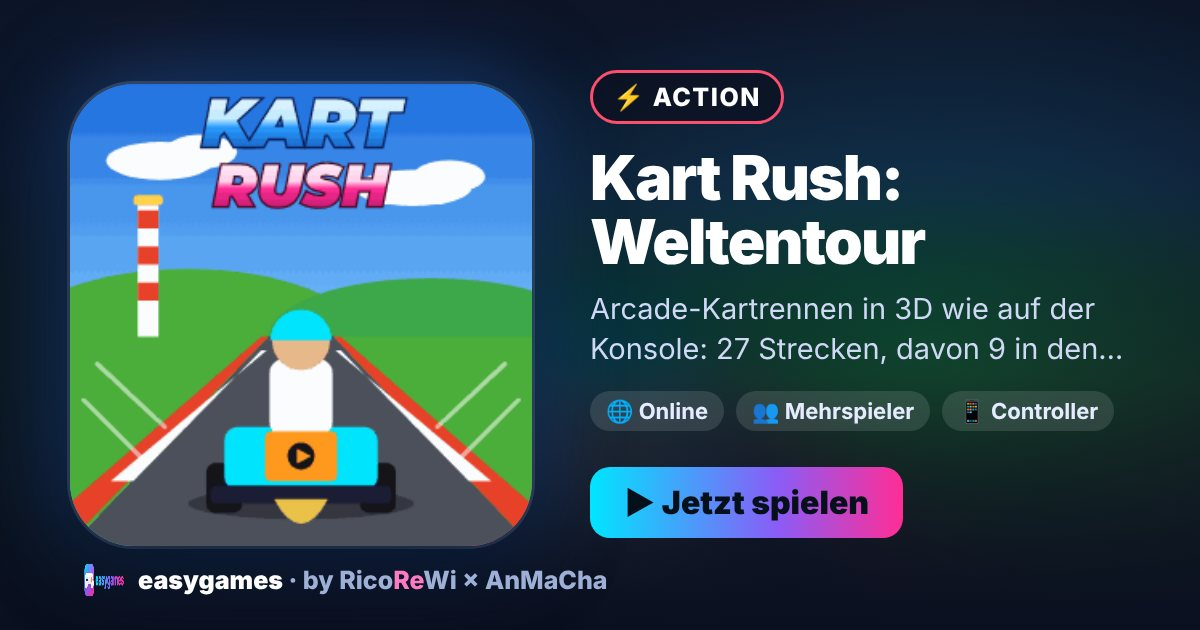
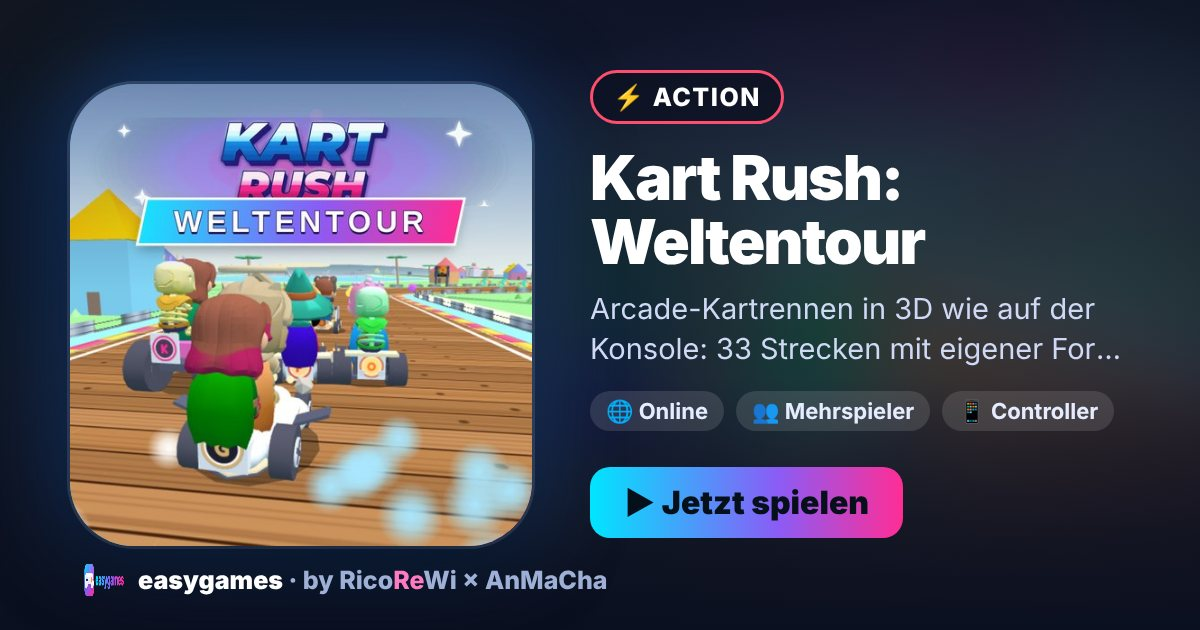
Kart Rush: Start mit alten Spielständen repariert, neue Spielkarte und Beschreibung (#765)
Claude-Session: https://claude.ai/code/session_01NrLDmyuqsTSX6ZUrFUCvV6

diff --git a/thumbs/thumbs.js b/thumbs/thumbs.js
@@ -1,2 +1,2 @@
 /* Erzeugt von tools/make-thumbs.py – nicht von Hand ändern. Spiel-ID → Prüfsumme des Kartenbilds. */
-window.EASYGAMES_THUMBS = {"FunkhausReality":"4aa38c236d","MachMichAus":"81ee6f75f8","aeru":"c2a8f2fe78","anmacha-beat-surfer":"008cf5e26a","anmacha-flipper":"53c6bf7082","anmacha-funkparcours":"2619f175e5","anmacha-gesucht":"7a63b68762","anmacha-gold-reels":"2923ec1fd8","anmacha-kartenrausch":"7b5e3bb831","anmacha-klotzfunk":"011e302d09","anmacha-koffer-dealer":"41b020a0e3","anmacha-markthalle":"89fffede78","anmacha-memory":"0585035cbd","anmacha-quest-rpg":"e301bd7e91","anmacha-quiz":"9a4a9c0e50","anmacha-radio-match":"63fddd3ae0","anmacha-radio-surfer":"ed2b090f00","anmacha-showdown":"cf6d4224c3","anmacha-snake":"3997434c15","anmacha-solitaire":"bcfead7dca","anmacha-spielesammlung":"4316f91b6f","anmacha-tower-defense":"4d19872c87","anmacha-undercover":"b72dd8e358","anmacha-urwaldlager":"d81ba29599","beat-studio":"3f9cf05175","bowling-bahn":"021e43a9a1","brainrot-parkour":"46f1c3e50b","bunte-insel":"22de6c1f68","challenge-show":"ab2de10024","darts-arena":"19ee317414","deluxe-2048":"e50a77959c","easyclash":"2d58b72e70","fabelkick":"03e09d6b85","fall-akte":"203677cdf8","frequenzminen":"ef06d327a5","funk-billard":"1304aa77c1","funk-survivor":"878f820442","funkgalgen":"b28b8589b6","funkgolf":"76a5361c19","funkmaler":"25b1bac743","gay-life":"0552be48d4","groove-arena":"608d7d74af","huepfstrasse":"cc8fefd12e","ich-bin-das-licht":"db8614122f","klavierlicht":"ef451d1a9c","konfetti-party":"77f099422b","kuechen-chaos":"65d8f6bcde","leuchtfeuer":"519b37deb3","mahjong":"4331ba0f89","mimori":"3fbe04be9a","partyverse":"c3bcad7278","pestwacht":"51ee0baf99","prismrush":"1f159400ab","radio-bingo":"a546e515b2","ricopoly":"91cf07cd88","riftzone":"820b303017","saftblitz":"e2bcce9437","schatzfieber":"c557860bab","sendemast-sumo":"0947dd8dbe","show-me-your-voice":"2b74c13759","sonnenhof":"c7b1ba067f","stadt-land-plus":"8fb1b45890","tortenschlacht":"fd1af57fbe","turbokick":"67af70bae7","werwolf-nacht":"9289aff572","winzflitzer":"2dec913b05","wolkenhopser":"d373d8ce5c","wortfunk":"d1830411be","wortgitter":"2f334d8da2","zeitsprung":"4b126b7654","zotik":"9f37ccfee2"};
+window.EASYGAMES_THUMBS = {"FunkhausReality":"4aa38c236d","MachMichAus":"81ee6f75f8","aeru":"c2a8f2fe78","anmacha-beat-surfer":"008cf5e26a","anmacha-flipper":"53c6bf7082","anmacha-funkparcours":"2619f175e5","anmacha-gesucht":"7a63b68762","anmacha-gold-reels":"2923ec1fd8","anmacha-kart":"1be3c7ebf2","anmacha-kartenrausch":"7b5e3bb831","anmacha-klotzfunk":"011e302d09","anmacha-koffer-dealer":"41b020a0e3","anmacha-markthalle":"89fffede78","anmacha-memory":"0585035cbd","anmacha-quest-rpg":"e301bd7e91","anmacha-quiz":"9a4a9c0e50","anmacha-radio-match":"63fddd3ae0","anmacha-radio-surfer":"ed2b090f00","anmacha-showdown":"cf6d4224c3","anmacha-snake":"3997434c15","anmacha-solitaire":"bcfead7dca","anmacha-spielesammlung":"4316f91b6f","anmacha-tower-defense":"4d19872c87","anmacha-undercover":"b72dd8e358","anmacha-urwaldlager":"d81ba29599","beat-studio":"3f9cf05175","bowling-bahn":"021e43a9a1","brainrot-parkour":"46f1c3e50b","bunte-insel":"22de6c1f68","challenge-show":"ab2de10024","darts-arena":"19ee317414","deluxe-2048":"e50a77959c","easyclash":"2d58b72e70","fabelkick":"03e09d6b85","fall-akte":"203677cdf8","frequenzminen":"ef06d327a5","funk-billard":"1304aa77c1","funk-survivor":"878f820442","funkgalgen":"b28b8589b6","funkgolf":"76a5361c19","funkmaler":"25b1bac743","gay-life":"0552be48d4","groove-arena":"608d7d74af","huepfstrasse":"cc8fefd12e","ich-bin-das-licht":"db8614122f","klavierlicht":"ef451d1a9c","konfetti-party":"77f099422b","kuechen-chaos":"65d8f6bcde","leuchtfeuer":"519b37deb3","mahjong":"4331ba0f89","mimori":"3fbe04be9a","partyverse":"c3bcad7278","pestwacht":"51ee0baf99","prismrush":"1f159400ab","radio-bingo":"a546e515b2","ricopoly":"91cf07cd88","riftzone":"820b303017","saftblitz":"e2bcce9437","schatzfieber":"c557860bab","sendemast-sumo":"0947dd8dbe","show-me-your-voice":"2b74c13759","sonnenhof":"c7b1ba067f","stadt-land-plus":"8fb1b45890","tortenschlacht":"fd1af57fbe","turbokick":"67af70bae7","werwolf-nacht":"9289aff572","winzflitzer":"2dec913b05","wolkenhopser":"d373d8ce5c","wortfunk":"d1830411be","wortgitter":"2f334d8da2","zeitsprung":"4b126b7654","zotik":"9f37ccfee2"};

diff --git a/anmacha-kart/game.js b/anmacha-kart/game.js
@@ -148,6 +148,17 @@ function initHost() {
   const spOf = ch => (CHARS[ch] && CHARS[ch].sp) || Sim.SPECIALS[ch % Sim.SPECIALS.length];
   const coOf = ch => save.co != null && save.co !== ch && CHARS[save.co] ? save.co : (ch + 7) % CHARS.length;
   const TR = Track.DEFS; let trCache = {}; const getTrack = (i, mi) => mi ? (trCache['m' + i] || (trCache['m' + i] = Track.build(Track.mirror(TR[i])))) : trCache[i] || (trCache[i] = Track.build(TR[i]));
+  // Gespeicherte Auswahl absichern: unbekannte/veraltete Werte (ältere Versionen, andere Apps) fallen auf gültige Standardwerte zurück
+  const okI = (v, n, d) => { v = Number(v); return Number.isInteger(v) && v >= 0 && v < n ? v : d; };
+  function fixSave() {
+    save.char = okI(save.char, CHARS.length, 1); save.kart = okI(save.kart, KARTS.length, 0); save.logo = okI(save.logo, 13, 6); save.cup = okI(save.cup, Track.CUPS.length, 0);
+    save.track = okI(save.track, TR.length, 0); if (TR[save.track].arena) save.track = 0;
+    const a0 = TR.findIndex(t => t.arena); save.arena = okI(save.arena, TR.length, a0); if (!TR[save.arena] || !TR[save.arena].arena) save.arena = a0;
+    save.co = save.co == null ? null : okI(save.co, CHARS.length, null); save.skill = okI(save.skill, 3, 1); save.cc = save.cc == null ? null : okI(save.cc, 4, null);
+    if (![2, 3, 5].includes(save.laps)) save.laps = 3; if (!['race', 'gp', 'tt', 'free', 'battle'].includes(save.rmode)) save.rmode = 'race'; if (!['ball', 'cap', 'bomb'].includes(save.bmode)) save.bmode = 'ball';
+    if (typeof save.name !== 'string') save.name = ''; if (!save.best || typeof save.best !== 'object') save.best = {}; save.cam = okI(save.cam, 4, 0);
+  }
+  fixSave();
   let logos = [], ready = false, menuView = 'title', setupFor = 'solo', R = null, lobbyOpen = false, peer = null, room = '', players = [], loopOn = false, lastT = 0, paused = false, curTrackIdx = -1, GP = null, nVp = 1;
   const kb = { l: 0, r: 0, g: 0, b: 0, d: 0, i: 0, sw: 0, lb: 0, hn: 0, cam: 0, rn: 0, rp: 0, ro: 0 }, tc = { s: 0, g: 0, b: 0, d: 0, i: 0, sw: 0, lb: 0, hn: 0, cam: 0 };
   // Tastatur: frei belegbar (Optionen → Tastenbelegung); Schlüssel = e.key in Kleinbuchstaben
@@ -320,7 +331,7 @@ function initHost() {
     View.warmup(); ready = true; $('loadInfo').textContent = `${TR.length} Strecken · ${KARTS.length} Karts · ${CHARS.length} Figuren · ${logos.length} Sender-Logos`; renderMenu();
     lastT = performance.now(); loopOn = true; requestAnimationFrame(frame);
     LD.finish(() => { LD.hide(); if (TV) { setupFor = 'multi'; renderMenu(); openLobby(); } else showView('title'); });
-  }).catch(e => { LD.stop(); $('err').hidden = false; $('errTxt').textContent = 'Das Spiel konnte nicht geladen werden (' + e.message + '). Bitte Internetverbindung prüfen.'; });
+  }).catch(e => { if (!sessionStorage.getItem('akReset') && !/fetch|network|load|script/i.test(e.message || '')) { try { sessionStorage.setItem('akReset', '1'); const b = save.best; localStorage.setItem('akSave', JSON.stringify({ best: b, name: save.name })); } catch (x) {} location.reload(); return; } LD.stop(); $('err').hidden = false; $('errTxt').textContent = 'Das Spiel konnte nicht geladen werden (' + e.message + '). Bitte Internetverbindung prüfen.'; });
   renderMenu(); document.addEventListener('pointerdown', () => AUD.unlock(), { once: true }); document.addEventListener('pointerdown', () => { if (!R && ready && !AUD.muted) AUD.bed('menu'); }, { once: true });
   addEventListener('resize', () => { if (ready) { View.resize(innerWidth, innerHeight, nVp); layoutHud(); if (R) R.dirty = true; } });
   if (coarse) $('kbToggle').textContent = '👆 Spieler an diesem Gerät';

diff --git a/share/anmacha-kart.html b/share/anmacha-kart.html
@@ -1,13 +1,13 @@
 <!doctype html>
 <html lang="de"><head><meta charset="utf-8"><meta name="viewport" content="width=device-width,initial-scale=1">
 <title>Kart Rush: Weltentour – easygames</title>
-<meta name="description" content="Arcade-Kartrennen in 3D wie auf der Konsole: 27 Strecken, davon 9 in den Welten der easygames (Zotik, Taschi, Bunte Insel, Wolkenhopser …), 10 Cups, 28 Fahrer und 10 Karts, Bananen, Steine…">
+<meta name="description" content="Arcade-Kartrennen in 3D wie auf der Konsole: 33 Strecken mit eigener Form und Welt, 14 Cups, 50/100/150 cc und Spiegel, Tandem mit zwei Fahrern pro Kart, Spezialitems, Geister-Zeitfahren,…">
 <link rel="canonical" href="https://ricorewioriginal-collab.github.io/easygames/anmacha-kart/">
 <meta property="og:type" content="website"><meta property="og:site_name" content="easygames by RicoReWi × AnMaCha">
-<meta property="og:title" content="Kart Rush: Weltentour – jetzt kostenlos spielen"><meta property="og:description" content="Arcade-Kartrennen in 3D wie auf der Konsole: 27 Strecken, davon 9 in den Welten der easygames (Zotik, Taschi, Bunte Insel, Wolkenhopser …), 10 Cups, 28 Fahrer und 10 Karts, Bananen, Steine…">
+<meta property="og:title" content="Kart Rush: Weltentour – jetzt kostenlos spielen"><meta property="og:description" content="Arcade-Kartrennen in 3D wie auf der Konsole: 33 Strecken mit eigener Form und Welt, 14 Cups, 50/100/150 cc und Spiegel, Tandem mit zwei Fahrern pro Kart, Spezialitems, Geister-Zeitfahren,…">
 <meta property="og:url" content="https://ricorewioriginal-collab.github.io/easygames/share/anmacha-kart.html"><meta property="og:image" content="https://ricorewioriginal-collab.github.io/easygames/share/anmacha-kart.jpg"><meta property="og:image:width" content="1200"><meta property="og:image:height" content="630">
 <meta property="og:image:alt" content="Kart Rush: Weltentour – easygames"><meta property="og:locale" content="de_DE">
-<meta name="twitter:card" content="summary_large_image"><meta name="twitter:title" content="Kart Rush: Weltentour – jetzt kostenlos spielen"><meta name="twitter:description" content="Arcade-Kartrennen in 3D wie auf der Konsole: 27 Strecken, davon 9 in den Welten der easygames (Zotik, Taschi, Bunte Insel, Wolkenhopser …), 10 Cups, 28 Fahrer und 10 Karts, Bananen, Steine…"><meta name="twitter:image" content="https://ricorewioriginal-collab.github.io/easygames/share/anmacha-kart.jpg">
+<meta name="twitter:card" content="summary_large_image"><meta name="twitter:title" content="Kart Rush: Weltentour – jetzt kostenlos spielen"><meta name="twitter:description" content="Arcade-Kartrennen in 3D wie auf der Konsole: 33 Strecken mit eigener Form und Welt, 14 Cups, 50/100/150 cc und Spiegel, Tandem mit zwei Fahrern pro Kart, Spezialitems, Geister-Zeitfahren,…"><meta name="twitter:image" content="https://ricorewioriginal-collab.github.io/easygames/share/anmacha-kart.jpg">
 <noscript><meta http-equiv="refresh" content="0;url=../anmacha-kart/"></noscript>
 <script>(function(){var to=new URLSearchParams(location.search).get('to');
 // ?to=<Adresse>: Vorschau (Bild, Text) von easygames, weiter zur einbindenden Seite. Bekannte Seiten sofort, andere nach einem Klick.

diff --git a/games.js b/games.js
@@ -54,8 +54,8 @@ const GAMES = [
     path: 'anmacha-showdown/', desc: 'Das Mikro-Duell: 7 Mini-Spiele gegen den Moderator oder zu zweit – wer zuerst 15 Punkte hat, gewinnt.' },
   { id: 'anmacha-gesucht', title: 'AnMaCha Gesucht & Gefunden', icon: '🔎', img: 'anmacha-gesucht/card.png', bg: 'linear-gradient(145deg,#c4143f,#7a3dff 55%,#00e5ff)', glow: 'rgba(196,20,63,.5)',
     path: 'anmacha-gesucht/', desc: 'Das Ratestudio: Hinweis-Raten, Fragen-Raten, Gesichter-Radar und Stirnband-Party – allein oder mit bis zu 4 Spielern.' },
-  { id: 'anmacha-kart', title: 'Kart Rush: Weltentour', icon: '🏎', img: 'anmacha-kart/card.png', bg: 'linear-gradient(145deg,#2a78e8,#00e5ff 50%,#ff2d95)', glow: 'rgba(42,120,232,.55)',
-    path: 'anmacha-kart/', desc: 'Arcade-Kartrennen in 3D wie auf der Konsole: 33 Strecken mit eigener Form und Welt (Herz, Acht mit Brücke, Stern, Kleeblatt …), 13 Cups, 36 KayKit-Fahrer inkl. echtem Zotik und der Oma-Bande (aus Oma-Rennen) auf Raketen-Rollatoren, 11 Karts, Bananen, Steine & Blitze. Volle Controller-Steuerung (PlayStation, Nintendo, Xbox), Touch, Kippen zum Lenken – solo, im Splitscreen oder mit bis zu 4 Handys.' },
+  { id: 'anmacha-kart', title: 'Kart Rush: Weltentour', icon: '🏎', img: 'anmacha-kart/card.jpg', bg: 'linear-gradient(145deg,#2a78e8,#00e5ff 50%,#ff2d95)', glow: 'rgba(42,120,232,.55)',
+    path: 'anmacha-kart/', desc: 'Arcade-Kartrennen in 3D wie auf der Konsole: 33 Strecken mit eigener Form und Welt, 14 Cups, 50/100/150 cc und Spiegel, Tandem mit zwei Fahrern pro Kart, Spezialitems, Geister-Zeitfahren, Battle in 3 Arenen (Ballonjagd, Funkpokal, Bomben-Duell) und Koop-Kart zu zweit. 36 Fahrer inkl. Zotik und der Oma-Bande, 11 Karts, 13 Radiosender. Volle Controller-Steuerung (PlayStation, Nintendo, Xbox), Touch, Kippen zum Lenken – solo, im Splitscreen oder mit bis zu 4 Handys.' },
   { id: 'wobbel', title: 'Wobbel', icon: '🟣', img: 'wobbel/card.png', bg: 'linear-gradient(145deg,#4ab8ff,#ff6fb0 60%,#ffb347)', glow: 'rgba(74,184,255,.55)',
     path: 'wobbel/', desc: 'Das Schiebe-Puzzle in 3D von RicoReWi: Kisten auf Ziele schieben – mit Wasser, Farben, Eis und Schlüsseln in 5 Welten.' },
   { id: 'anmacha-hoererwahl', title: 'AnMaCha Hörerwahl', icon: '🎙', img: 'anmacha-hoererwahl/card.png', bg: 'linear-gradient(145deg,#00e5ff,#8b5cf6 50%,#ff2d95)', glow: 'rgba(139,92,246,.55)',

diff --git a/anmacha-kart/index.html b/anmacha-kart/index.html
@@ -564,7 +564,7 @@ d.append(b,x);document.body.appendChild(d);setTimeout(function(){if(d.parentNode
 <script src="sim.js?v=20261115-wt13"></script>
 <script src="nav.js?v=20261115-wt1"></script>
 <script src="radio.js?v=20261115-wt1"></script>
-<script src="game.js?v=20261115-wt16"></script>
+<script src="game.js?v=20261115-wt17"></script>
 <script src="../cloud/anmacha-cloud.js" data-game="kart" data-prefix="akChar,akKart,akLogo,akMute,akName,akSave,akTts" defer></script>
 <script src="../gamepad.js" data-pad="info" data-pad-labels="a=Gas · Bestätigen; b=Bremsen · Zurück; rt=Gas; dpad=Lenken · Menü; ls=Lenken; lt=Bremsen; rb=Driften; x=Driften; y=Item; lb=Item · Seite; start=Pause · Los" defer></script>
 <script src="../egstat.js" defer></script>
